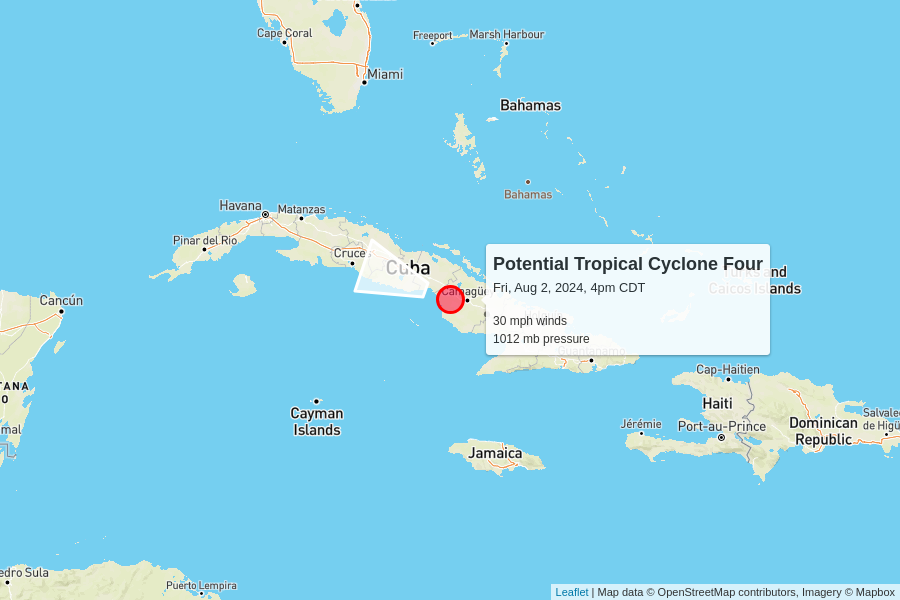
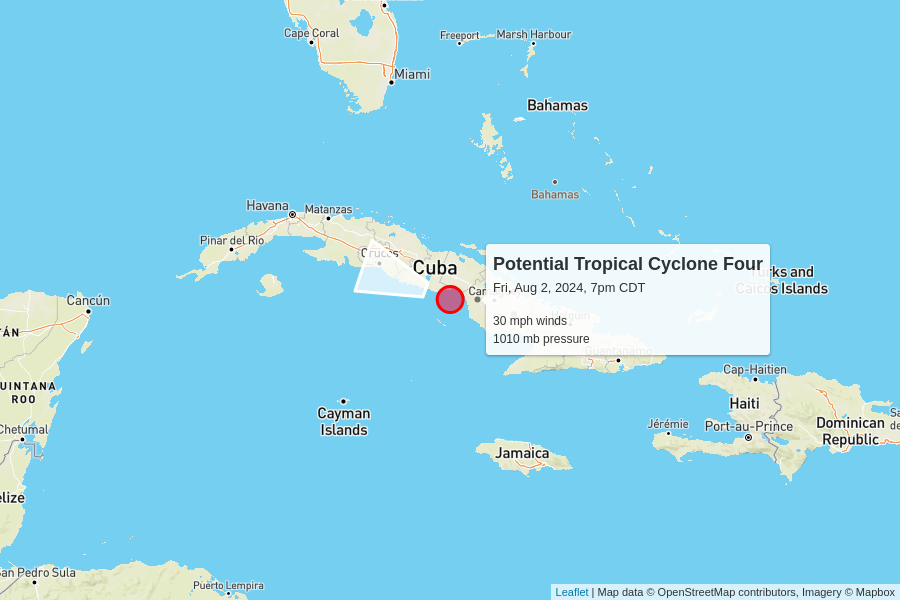
automatic update

diff --git a/docs/index.html b/docs/index.html
@@ -102,7 +102,7 @@
         <td colspan="6" class="storm category-0" >
           <h2>
             Potential Tropical Cyclone Four
-            <p class="updated">last updated <span data-time>2024-08-02T21:00:00.000Z</span></p>
+            <p class="updated">last updated <span data-time>2024-08-03T00:00:00.000Z</span></p>
           </h2>
         </td>
       </tr>
@@ -118,7 +118,7 @@
       <tr>
         <td class="spacer"></td>
         <td>30 mph<br>0 mph since last update</td>
-        <td>1012 mb<br>0 mb since last update</td>
+        <td>1010 mb<br>-2 mb since last update</td>
         <td>
           16 mph to the west-northwest
           <br/>
